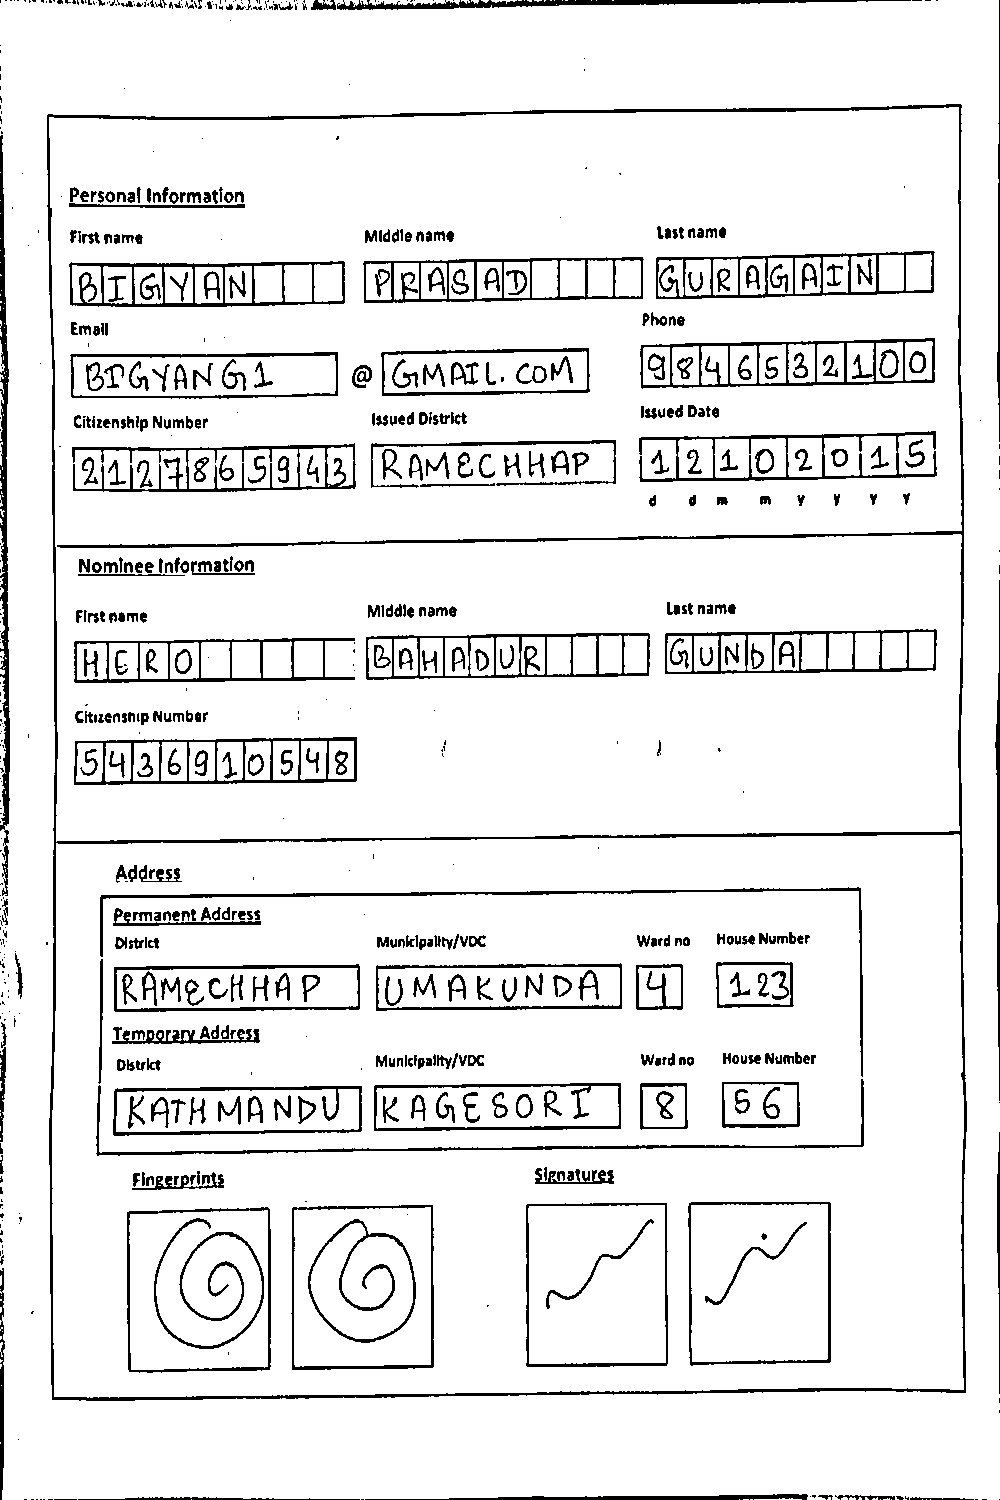
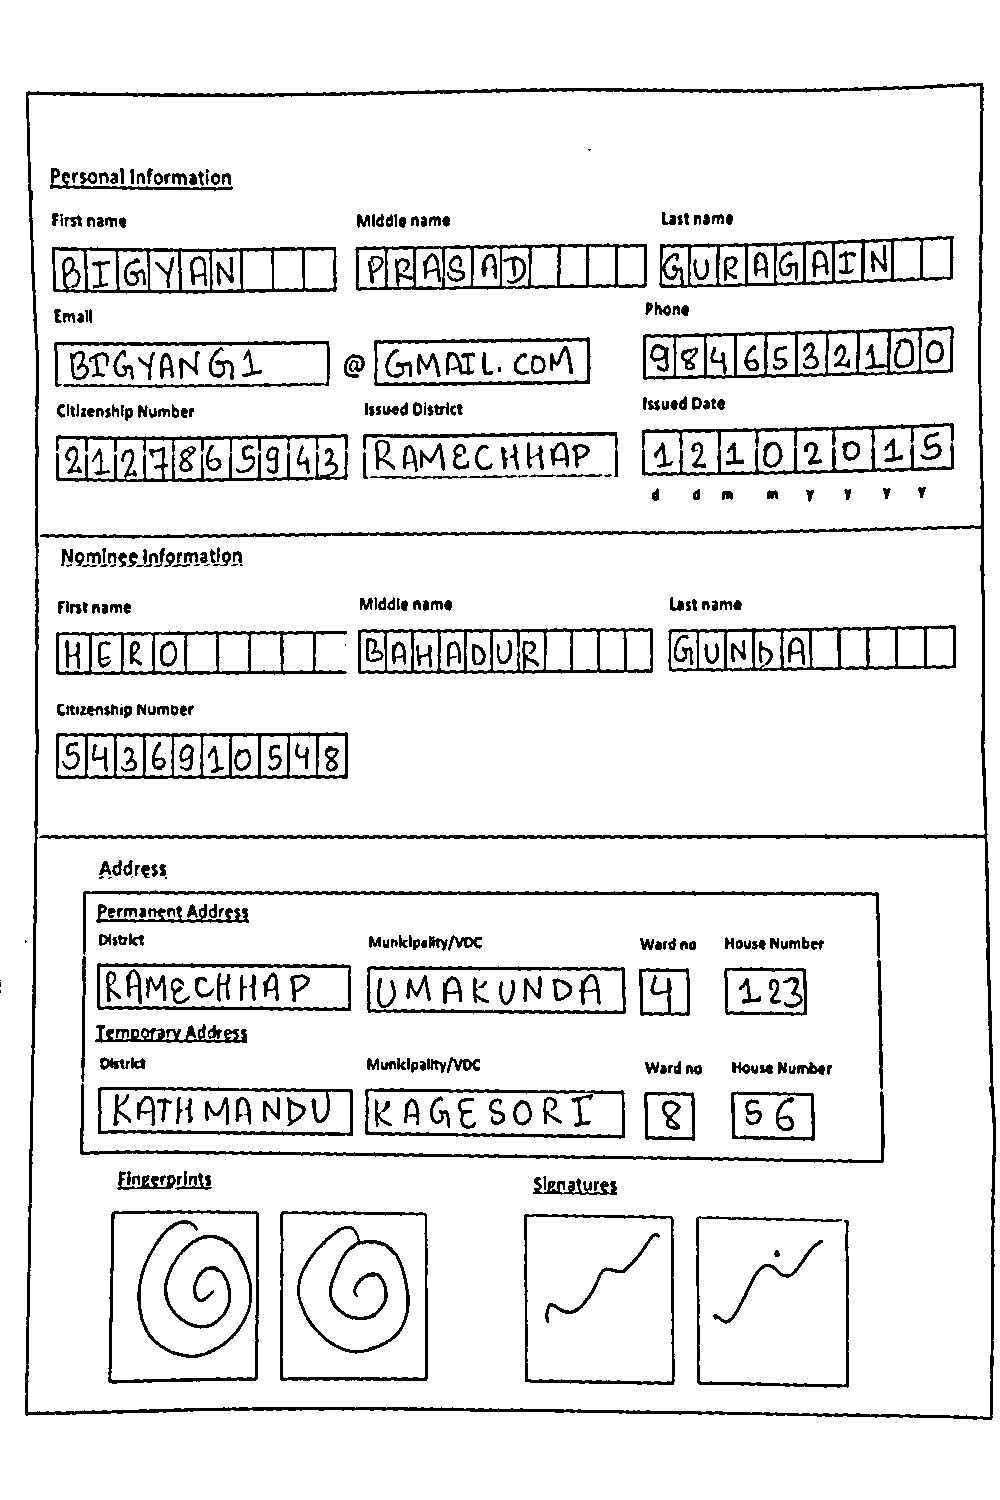
changed the format

diff --git a/Form Detection/getTheBox.py b/Form Detection/getTheBox.py
@@ -1,26 +1,19 @@
 import cv2
 
-image = cv2.imread("Forms/Aligned_Image.jpg")
-# image = cv2.imread("Boxes/844.jpg")
+image = cv2.imread("Forms/Aligned_Image2_8bit.jpg")
 image = cv2.resize(image,(650*2,700*2))
-# image = cv2.resize(image,(422*2,78*2))
-roi = [[(14, 152), (416, 210)], [(446, 150), (848, 200)], [(870, 146), (1274, 196)], [(22, 256), (404, 314)], [(474, 254), (772, 308)], [(848, 246), (1274, 294)], [(24, 356), (430, 408)], [(454, 356), (806, 406)], [(846, 346), (1272, 398)], [(26, 570), (422, 622)], [(450, 564), (856, 620)], [(884, 562), (1274, 612)], [(22, 680), (430, 732)], [(80, 926), (432, 984)], [(460, 926), (816, 984)], [(840, 924), (906, 984)], [(956, 924), (1070, 986)], [(80, 1062), (436, 1118)], [(458, 1058), (812, 1114)], [(844, 1058), (910, 1112)], [(966, 1060), (1078, 1112)], [(102, 1200), (302, 1382)], [(336, 1192), (546, 1376)], [(676, 1190), (888, 1374)], [(916, 1188), (1122, 1378)]]
-# roi = [[(12, 44), (88, 142)], [(90, 40), (166, 142)], [(172, 42), (244, 132)], [(252, 38), (324, 132)], [(328, 40), (412, 134)], [(410, 34), (492, 136)]]
+roi = [[(70, 230), (112, 274)], [(114, 228), (154, 274)], [(154, 230), (194, 276)], [(194, 230), (234, 278)], [(234, 228), (276, 278)], [(276, 228), (316, 276)], [(312, 226), (356, 274)], [(356, 226), (396, 274)], [(394, 228), (434, 274)]]
 for points in roi:
     point1 = points[0]
     point2 = points[1]
 
-    x1, y1 = max(0, point1[0] - 20), max(0, point1[1] - 20)
-    x2, y2 = min(image.shape[1], point2[0] + 20), min(image.shape[0], point2[1] + 20)
-
-    # x1,y1,x2,y2= point1[0]-20, point1[1]-20,point2[0]+20,point2[1]+20
-    # x1,y1,x2,y2= point1[0], point1[1],point2[0],point2[1]
+    x1, y1 = max(0, point1[0] + 5), max(0, point1[1] + 5)
+    x2, y2 = min(image.shape[1], point2[0] - 5), min(image.shape[0], point2[1] - 5)
 
     # Crop the rectangular region from the image
     cropped_image = image[y1:y2, x1:x2]
 
     # Display the cropped image
     cv2.imshow("Cropped Image", cropped_image)
-    cv2.imwrite("Boxes/"+str(point1[0])+".jpg",cropped_image)
     cv2.waitKey(0)
     cv2.destroyAllWindows()

diff --git a/Form Detection/form_process.py b/Form Detection/form_process.py
@@ -42,10 +42,6 @@ def EdgeDetection(gray,img):
         # If our approximated contour has four points
         if len(corners) == 4 and cv2.contourArea(c) > 10000:
             break
-
-    # cv2.drawContours(con, c, -1, (0, 255, 255), 3)
-    # cv2.drawContours(con, corners, -1, (0, 255, 0), 10)
-
     return corners
 
 def gettingform(corners,imgThres):
@@ -59,19 +55,20 @@ def gettingform(corners,imgThres):
     matrix = cv2.getPerspectiveTransform(pts1, pts2)
     imgWarpColored = cv2.warpPerspective(imgThres, matrix, (widthImg, heightImg))
 
-    # # REMOVE 20 PIXELS FORM EACH SIDE
-    # imgWarpColored = imgWarpColored[20:imgWarpColored.shape[0] - 20, 20:imgWarpColored.shape[1] - 20]
-    # imgWarpColored = cv2.resize(imgWarpColored, (widthImg, heightImg))
+    # REMOVE 20 PIXELS FORM EACH SIDE
+    imgWarpColored = imgWarpColored[20:imgWarpColored.shape[0] - 20, 20:imgWarpColored.shape[1] - 20]
+    imgWarpColored = cv2.resize(imgWarpColored, (widthImg, heightImg))
 
     #converting to black amd white
     imgWarpGray = cv2.cvtColor(imgWarpColored, cv2.COLOR_BGR2GRAY)
-    #
+
     # #Apply adaptive thresholding with a lower block size and a higher constant value to decrease the number of dots
     imgAdaptiveThre = cv2.adaptiveThreshold(imgWarpGray, 255, cv2.ADAPTIVE_THRESH_MEAN_C, cv2.THRESH_BINARY_INV, 13, 9)
-    #
-    # # Invert the binary image
+
+    # Invert the binary image
     imgAdaptiveThre = cv2.bitwise_not(imgAdaptiveThre)
     return imgAdaptiveThre
+
 def reorder(myPoints):
     myPoints = myPoints.reshape((4, 2))
     myPointsNew = np.zeros((4, 1, 2), dtype=np.int32)
@@ -89,11 +86,11 @@ heightImg = 1500
 widthImg = 1000
 kernel = np.ones((5,5),np.uint8)
 
-image = cv2.imread("Forms/2.jpg")
+image = cv2.imread("Forms/6.jpg")
 grayImage,imgThreshold = preprocessImage(image)
 finalCorners = EdgeDetection(grayImage,imgThreshold)
 finalImage = gettingform(finalCorners,imgThreshold)
 
 cv2.imshow("second",finalImage)
-cv2.imwrite("Forms/output_image1.jpg", finalImage)
+cv2.imwrite("Forms/output_image3.jpg", finalImage)
 cv2.waitKey(0)

diff --git a/Form Detection/alignForm.py b/Form Detection/alignForm.py
@@ -1,0 +1,43 @@
+import cv2
+import numpy as np
+
+def alignForm(image1, image2):
+    # Convert images to grayscale
+    gray1 = cv2.cvtColor(image1, cv2.COLOR_BGR2GRAY)
+    gray2 = cv2.cvtColor(image2, cv2.COLOR_BGR2GRAY)
+
+    # Find keypoints and descriptors using SIFT
+    orb = cv2.ORB_create()
+    keypoints1, descriptors1 = orb.detectAndCompute(gray1, None)
+    keypoints2, descriptors2 = orb.detectAndCompute(gray2, None)
+
+    # Match features between the two images
+    matcher = cv2.BFMatcher(cv2.NORM_HAMMING, crossCheck=True)
+    matches = matcher.match(descriptors1, descriptors2)
+
+    matches = sorted(matches, key=lambda x: x.distance)
+
+    # Select top matches
+    num_good_matches = 50
+    good_matches = matches[:num_good_matches]
+
+    # Extract corresponding keypoints
+    points1 = np.float32([keypoints1[match.queryIdx].pt for match in good_matches])
+    points2 = np.float32([keypoints2[match.trainIdx].pt for match in good_matches])
+
+    # Calculate transformation matrix
+    transformation_matrix, _ = cv2.findHomography(points2, points1, cv2.RANSAC)
+
+
+    # Apply transformation to form2
+    aligned_image = cv2.warpPerspective(image2, transformation_matrix, (image1.shape[1], image1.shape[0]))
+
+    # Show the result
+    cv2.imshow('Aligned Image', aligned_image)
+    cv2.imwrite('Forms/Aligned_Image2_8bit.jpg', aligned_image)
+    cv2.waitKey(0)
+    cv2.destroyAllWindows()
+
+image1 = cv2.imread('Forms/output_image.jpg')
+image2 = cv2.imread('Forms/output_image3.jpg')
+alignForm(image1, image2)

diff --git a/Form Detection/resize.py b/Form Detection/resize.py
@@ -1,0 +1,45 @@
+import cv2
+import numpy as np
+
+# Load the image
+image = cv2.imread("Forms/output_image2.jpg")
+
+# Resize the image to a manageable size
+image = cv2.resize(image, (1000, 1500))
+
+# Convert the image to grayscale
+gray = cv2.cvtColor(image, cv2.COLOR_BGR2GRAY)
+
+# Apply Gaussian blur to reduce noise
+blurred = cv2.GaussianBlur(gray, (5, 5), 1)
+
+# Perform edge detection using Canny
+edges = cv2.Canny(blurred, 100, 100)
+
+# Find contours in the edge-detected image
+contours, _ = cv2.findContours(edges.copy(), cv2.RETR_EXTERNAL, cv2.CHAIN_APPROX_SIMPLE)
+
+# Find the contour with the maximum area
+max_contour = max(contours, key=cv2.contourArea)
+
+# Get the bounding box coordinates of the largest contour
+x, y, w, h = cv2.boundingRect(max_contour)
+
+# Define the margin to remove (in this case, 20 pixels)
+margin = 20
+
+# Adjust the bounding box coordinates
+x += margin
+y += margin
+w -= 2 * margin
+h -= 2 * margin
+
+# Crop the region of interest (ROI) from the original image
+cropped_image = image[y:y+h, x:x+w]
+
+cropped_image2 = cv2.resize(cropped_image,(700,700))
+# Display the cropped image
+cv2.imshow("Cropped Image", cropped_image2)
+cv2.imwrite("Forms/finalImage2.jpg", cropped_image)
+cv2.waitKey(0)
+cv2.destroyAllWindows()

diff --git a/Form Detection/regionSelector.py b/Form Detection/regionSelector.py
@@ -8,11 +8,12 @@ and the Name:
 Type can be 'Text' or 'CheckBox'
 Name can be anything
 """
+# [[(70, 230), (112, 274)], [(114, 228), (154, 274)], [(154, 230), (194, 276)], [(194, 230), (234, 278)], [(234, 228), (276, 278)], [(276, 228), (316, 276)], [(312, 226), (356, 274)], [(356, 226), (396, 274)], [(394, 228), (434, 274)]]
 
 import cv2
 import random
 
-path ='Boxes/446.jpg'
+path ='Forms/output_image.jpg'
 scale = 0.5
 circles = []
 counter = 0
@@ -40,7 +41,6 @@ def mousePoints(event,x,y,flags,params):
 
 img = cv2.imread(path)
 img = cv2.resize(img, (650, 700))
-
 
 while True:
     # To Display points

diff --git a/Form Detection/RegionOfInterest.py b/Form Detection/RegionOfInterest.py
@@ -1,0 +1,1 @@
+#defining the region of interests for all
